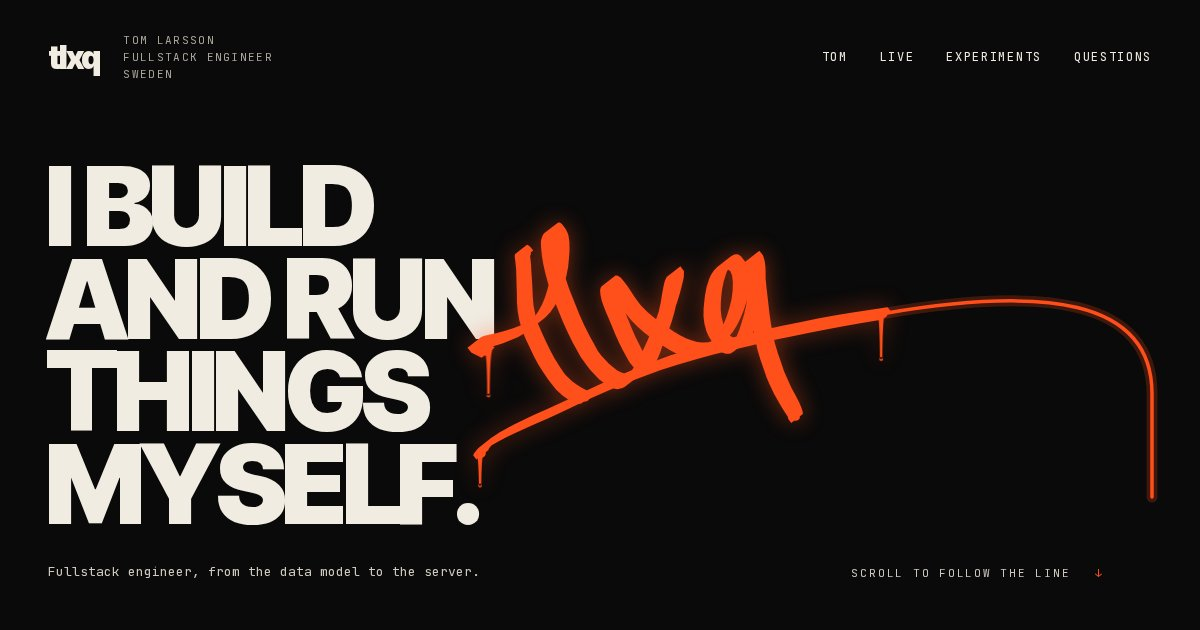
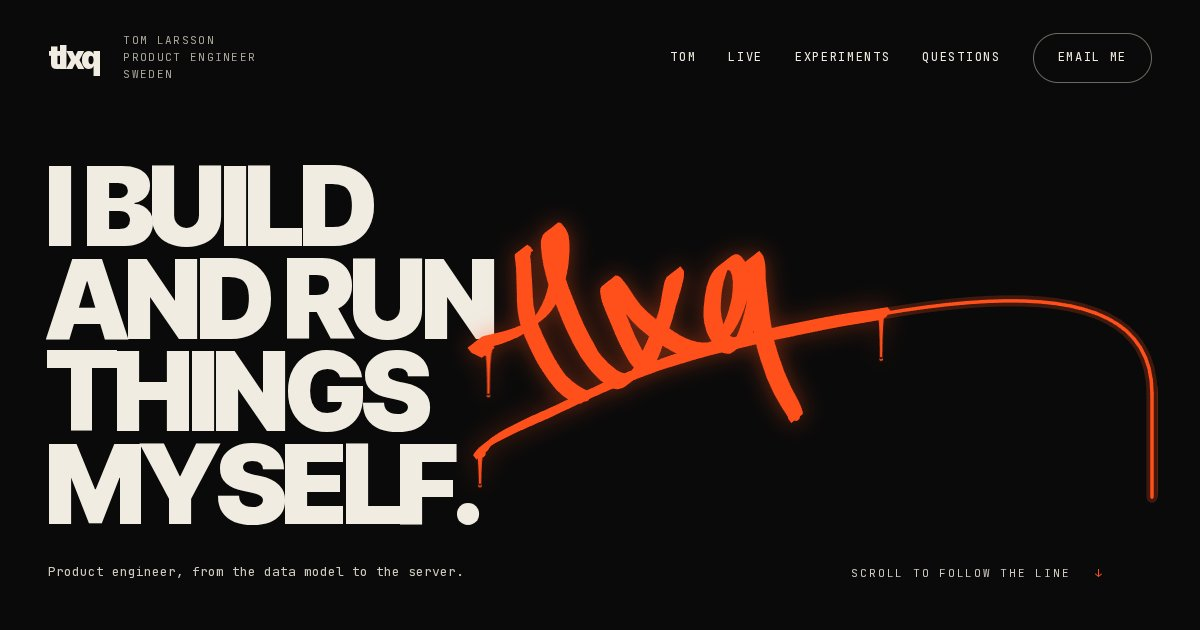
fix: the site says product engineer, and the mail form takes 5 messages a day per address (#36)

Changed region(s): [[0.0308, 0.9048, 0.4008, 0.9349], [0.7708, 0.0603, 0.9558, 0.1206], [0.6783, 0.0603, 0.74, 0.0905]]

diff --git a/api/contact.ts b/api/contact.ts
@@ -2,46 +2,126 @@
  * The mail form (Questions): sends a visitor's message to Tom through Resend. Tom's address and the
  * key stay here, on the server (CONTACT_TO and RESEND_API_KEY in Vercel's settings), never in the
  * page. CONTACT_FROM is the sender, an address on ttdevs.com (a domain set up at Resend).
+ *
+ * A few messages a day per address: the key is shared with the wall's tags (api/tags.ts), so a flood
+ * here would use up the mail service and stop the tags too. The count lives in the tags' sends table
+ * (DATABASE_URL, TAG_SECRET), under its own scrambled address, so mail and tags don't share a limit.
+ * Tests: src/tags/contact.test.ts.
  */
-const LONGEST = 4000;
+import { neon } from "@neondatabase/serverless";
+import { createHash } from "node:crypto";
+
+export const LONGEST = 4000;
+/** Messages one address may send in a day: a real visitor writes once or twice, a robot doesn't stop. */
+export const MAIL_PER_ADDRESS = 5;
 const EMAIL = /^[^\s@]+@[^\s@]+\.[^\s@]+$/;
 
-export async function POST(request: Request): Promise<Response> {
-  const key = process.env.RESEND_API_KEY;
-  const to = process.env.CONTACT_TO;
-  if (!key || !to) return Response.json({ error: "not-set-up" }, { status: 503 });
-  let body: { name?: unknown; email?: unknown; message?: unknown; website?: unknown };
-  try {
-    body = (await request.json()) as typeof body;
-  } catch {
-    return Response.json({ error: "bad-request" }, { status: 400 });
-  }
-  // A field only robots fill in: they get a thank-you and nothing is sent.
-  if (typeof body.website === "string" && body.website) return Response.json({ sent: true });
-  const email = typeof body.email === "string" ? body.email.trim() : "";
-  const name = typeof body.name === "string" ? body.name.trim().slice(0, 100) : "";
-  const message = typeof body.message === "string" ? body.message.trim() : "";
-  if (!EMAIL.test(email) || email.length > 200) {
-    return Response.json({ error: "email" }, { status: 400 });
-  }
-  if (!message || message.length > LONGEST) {
-    return Response.json({ error: "message" }, { status: 400 });
-  }
-  try {
-    const sent = await fetch("https://api.resend.com/emails", {
-      method: "POST",
-      headers: { Authorization: `Bearer ${key}`, "Content-Type": "application/json" },
-      body: JSON.stringify({
-        from: process.env.CONTACT_FROM || "tlxq <onboarding@resend.dev>",
-        to: [to],
-        reply_to: email,
-        subject: `Message from ${name ? `${name} <${email}>` : email}`,
-        text: message,
-      }),
+/** The sender's address scrambled with the secret, as api/tags.ts does it, plus "mail:" so the two
+ * never count each other's sends. Each api file is its own function on Vercel, so it isn't shared. */
+export function mailHash(request: Request, secret: string): string {
+  const forwarded = request.headers.get("x-forwarded-for");
+  const ip = (forwarded?.split(",")[0] || request.headers.get("x-real-ip") || "unknown").trim();
+  return createHash("sha256")
+    .update(secret + "mail:" + ip)
+    .digest("base64url");
+}
+
+/** Everything the handler needs from the outside, so the tests can run it without a database or mail. */
+export type ContactDeps = {
+  secret: string;
+  /** Mails sent from this address in the last day. */
+  sentToday(ipHash: string): Promise<number>;
+  /** Counts one more mail for this address (and clears rows older than a day). */
+  count(ipHash: string): Promise<void>;
+  mail(m: { replyTo: string; subject: string; text: string }): Promise<boolean>;
+};
+
+export function contact(deps: () => ContactDeps | null) {
+  return async function POST(request: Request): Promise<Response> {
+    const d = deps();
+    if (!d) return Response.json({ error: "not-set-up" }, { status: 503 });
+    let body: { name?: unknown; email?: unknown; message?: unknown; website?: unknown };
+    try {
+      body = (await request.json()) as typeof body;
+    } catch {
+      return Response.json({ error: "bad-request" }, { status: 400 });
+    }
+    if (!body || typeof body !== "object")
+      return Response.json({ error: "bad-request" }, { status: 400 });
+    // A field only robots fill in: they get a thank-you and nothing is sent.
+    if (typeof body.website === "string" && body.website) return Response.json({ sent: true });
+    const email = typeof body.email === "string" ? body.email.trim() : "";
+    const name = typeof body.name === "string" ? body.name.trim().slice(0, 100) : "";
+    const message = typeof body.message === "string" ? body.message.trim() : "";
+    if (!EMAIL.test(email) || email.length > 200) {
+      return Response.json({ error: "email" }, { status: 400 });
+    }
+    if (!message || message.length > LONGEST) {
+      return Response.json({ error: "message" }, { status: 400 });
+    }
+    const ipHash = mailHash(request, d.secret);
+    // Counted before it goes: a send the mail service turns down still used a call to it. No count, no
+    // mail: when the database doesn't answer, nothing is sent.
+    try {
+      if ((await d.sentToday(ipHash)) >= MAIL_PER_ADDRESS) {
+        return Response.json({ error: "too-many" }, { status: 429 });
+      }
+      await d.count(ipHash);
+    } catch {
+      return Response.json({ error: "mail-service" }, { status: 503 });
+    }
+    const sent = await d.mail({
+      replyTo: email,
+      subject: `Message from ${name ? `${name} <${email}>` : email}`,
+      text: message,
     });
-    if (!sent.ok) return Response.json({ error: "mail-service" }, { status: 502 });
+    if (!sent) return Response.json({ error: "mail-service" }, { status: 502 });
     return Response.json({ sent: true });
-  } catch {
-    return Response.json({ error: "mail-service" }, { status: 502 });
-  }
+  };
+}
+
+function liveDeps(): ContactDeps | null {
+  const key = process.env.RESEND_API_KEY,
+    to = process.env.CONTACT_TO,
+    url = process.env.DATABASE_URL,
+    secret = process.env.TAG_SECRET;
+  if (!key || !to || !url || !secret || secret.length < 32) return null;
+  const sql = neon(url);
+  return {
+    secret,
+    async sentToday(ipHash) {
+      const r =
+        await sql`select count(*)::int as n from sends where ip_hash = ${ipHash} and at > now() - interval '1 day'`;
+      return r[0]!.n as number;
+    },
+    async count(ipHash) {
+      await sql.transaction([
+        sql`delete from sends where at < now() - interval '1 day'`,
+        sql`insert into sends (ip_hash) values (${ipHash})`,
+      ]);
+    },
+    async mail({ replyTo, subject, text }) {
+      try {
+        const sent = await fetch("https://api.resend.com/emails", {
+          method: "POST",
+          headers: { Authorization: `Bearer ${key}`, "Content-Type": "application/json" },
+          body: JSON.stringify({
+            from: process.env.CONTACT_FROM || "tlxq <onboarding@resend.dev>",
+            to: [to],
+            reply_to: replyTo,
+            subject,
+            text,
+          }),
+        });
+        return sent.ok;
+      } catch {
+        return false;
+      }
+    },
+  };
+}
+
+const live = contact(liveDeps);
+export function POST(request: Request) {
+  return live(request);
 }

diff --git a/src/tags/contact.test.ts b/src/tags/contact.test.ts
@@ -1,0 +1,94 @@
+import { test } from "node:test";
+import assert from "node:assert/strict";
+import { contact, mailHash, MAIL_PER_ADDRESS, type ContactDeps } from "../../api/contact.ts";
+
+const SECRET = "x".repeat(40);
+
+/** The handler on an in-memory sends table and a mail box that keeps what was sent. */
+function world(mailWorks = true) {
+  const sends: string[] = [];
+  const mails: Parameters<ContactDeps["mail"]>[0][] = [];
+  const deps: ContactDeps = {
+    secret: SECRET,
+    async sentToday(ipHash) {
+      return sends.filter((s) => s === ipHash).length;
+    },
+    async count(ipHash) {
+      sends.push(ipHash);
+    },
+    async mail(m) {
+      mails.push(m);
+      return mailWorks;
+    },
+  };
+  return { sends, mails, post: contact(() => deps) };
+}
+
+const send = (body: Record<string, unknown>, ip = "1.2.3.4") =>
+  new Request("https://ttdevs.com/api/contact", {
+    method: "POST",
+    headers: { "Content-Type": "application/json", "x-forwarded-for": ip },
+    body: JSON.stringify(body),
+  });
+const letter = { name: "Kasper", email: "k@example.com", message: "Hej Tom" };
+
+test("a message goes to Tom with the visitor as reply-to", async () => {
+  const w = world();
+  const r = await w.post(send(letter));
+  assert.equal(r.status, 200);
+  assert.deepEqual(w.mails, [
+    { replyTo: "k@example.com", subject: "Message from Kasper <k@example.com>", text: "Hej Tom" },
+  ]);
+});
+
+test(`${MAIL_PER_ADDRESS} messages a day per address, then too-many and no mail`, async () => {
+  const w = world();
+  for (let i = 0; i < MAIL_PER_ADDRESS; i++) assert.equal((await w.post(send(letter))).status, 200);
+  const r = await w.post(send(letter));
+  assert.equal(r.status, 429);
+  assert.deepEqual(await r.json(), { error: "too-many" });
+  assert.equal(w.mails.length, MAIL_PER_ADDRESS);
+  // Another address still gets through.
+  assert.equal((await w.post(send(letter, "5.6.7.8"))).status, 200);
+});
+
+test("a send the mail service turns down still counts", async () => {
+  const w = world(false);
+  for (let i = 0; i < MAIL_PER_ADDRESS; i++) assert.equal((await w.post(send(letter))).status, 502);
+  assert.equal((await w.post(send(letter))).status, 429);
+});
+
+test("robots, bad addresses and empty messages are never counted or mailed", async () => {
+  const w = world();
+  assert.equal((await w.post(send({ ...letter, website: "x" }))).status, 200);
+  assert.equal((await w.post(send({ ...letter, email: "nope" }))).status, 400);
+  assert.equal((await w.post(send({ ...letter, message: " " }))).status, 400);
+  assert.equal((await w.post(send({ ...letter, message: "x".repeat(4001) }))).status, 400);
+  assert.equal(w.sends.length, 0);
+  assert.equal(w.mails.length, 0);
+});
+
+test("mail and tags count apart, and no real address is stored", () => {
+  const r = send(letter);
+  const h = mailHash(r, SECRET);
+  assert.ok(!h.includes("1.2.3.4"));
+  assert.equal(h, mailHash(send(letter), SECRET));
+  assert.notEqual(h, mailHash(send(letter, "5.6.7.8"), SECRET));
+});
+
+test("no database, no mail", async () => {
+  let mailed = 0;
+  const post = contact(() => ({
+    secret: SECRET,
+    sentToday: () => Promise.reject(new Error("down")),
+    count: async () => {},
+    mail: async () => (mailed++, true),
+  }));
+  assert.equal((await post(send(letter))).status, 503);
+  assert.equal(mailed, 0);
+});
+
+test("not set up answers 503", async () => {
+  const r = await contact(() => null)(send(letter));
+  assert.equal(r.status, 503);
+});

diff --git a/app/page.tsx b/app/page.tsx
@@ -10,10 +10,10 @@ import { PaintSelect } from "@/look/PaintSelect";
 import { Tom } from "@/look/Tom";
 import { tagWritten } from "@/look/handPaint";
 
-const title = "Tom Larsson, fullstack engineer";
-/** What a shared link says under the title (Tom's words 11-14; LinkedIn wants 100 characters or more). */
+const title = "Tom Larsson, product engineer";
+/** What a shared link says under the title (Tom's words 11-14, role word 11-18; LinkedIn wants 100 characters or more). */
 const description =
-  "Tom Larsson, fullstack developer from Sweden. I believe in AI and build with it every day. Arch Linux, btw.";
+  "Tom Larsson, product engineer from Sweden. I believe in AI and build with it every day. Arch Linux, btw.";
 
 export const metadata: Metadata = {
   title,

diff --git a/src/content/look.ts b/src/content/look.ts
@@ -2,7 +2,7 @@
 
 /** The address Tom picked (11-15). It is in the code, so local runs, walks and Vercel all show the same link. */
 
-export const lookWho = ["Tom Larsson", "Fullstack engineer", "Sweden"];
+export const lookWho = ["Tom Larsson", "Product engineer", "Sweden"];
 
 /** The four parts, one per letter of tlxq. */
 export const lookParts = [
@@ -26,7 +26,7 @@ export const lookParts = [
 
 export const lookHero = {
   lines: ["I build", "and run", "things", "myself."],
-  lead: "Fullstack engineer, from the data model to the server.",
+  lead: "Product engineer, from the data model to the server.",
   cue: "Scroll to follow the line",
 };
 

diff --git a/src/look/MailForm.tsx b/src/look/MailForm.tsx
@@ -13,6 +13,7 @@ const SHOW_LEFT = 400;
 const WHY: Record<string, string> = {
   email: "That email address doesn't look complete.",
   message: "The message is empty or longer than 4 000 characters.",
+  "too-many": "This address has sent all its messages for today. Try again tomorrow.",
 };
 
 /**
